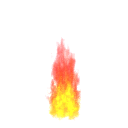
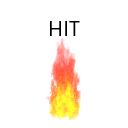
parse.js file works no bugs, html is fully updated to reflect changes for assignement 6, hit png was changed to add some text to clarify what it was.  Also the EXJson file was updated to fix a bug requiring an extra [0] to be placed before referencing the arrays.

Changed region(s): [[0.375, 0.1562, 0.625, 0.2812]]

diff --git a/parse.js b/parse.js
@@ -22,19 +22,52 @@ function parseJSON(){
     var playerHealth = document.getElementById("playerHealth");
     var turn = document.getElementById("turn");
 
+    //Player Board and CompBoard are 2D arrays ex. playerboard.rows[row].cells[col];
 
     turn.innerHTML = "Turn: " + json.turn;
     playerHealth.innerHTML = "Your Health: " + json.playerHealth;
     compHealth.innerHealth = "Computer Health: " + json.compHealth;
 
-    var compCells = compBoard.getElementsByTagName("td");
-    var playerCells = playerBoard.getElementsByTagName("td");
 
-    for(var i = 0; i < sizeof(compCells); ++i){
-        
+    console.info(playerBoard.length);
+
+    var constArraySize = 3;
+    var playerObjGrid = json.playerBoard;
+    var compObjGrid = json.compBoard;
+
+    //Three different values inside of the ObjGrids:
+    // 0 - Means hasnot been targeted, but will be a miss
+    // 1 - Means has been targeted, was a miss
+    // Piece obj - has a parameter if prevTargeted.
+    //      If prevTargeted is 0 - means that has not been targeted
+    //      If prevtargeted is 1 - means has already been shot, was a hit
+
+    //Really only need to display for player board: Pieces, and missed shots against player
+    for(var i = 0; i < constArraySize; ++i){
+        for(var j = 0; j < constArraySize; ++j){
+            if(playerObjGrid[i][j] == 1){ // Is a prevTargeted miss, display water splash
+                playerBoard.rows[i].cells[j].innerHTML = "<img src='miss.png' alt='MISS'>";
+            }
+            else if(playerObjGrid[i][j].prevTargeted == 1){ //is a prevTargeted piece, display fire
+                playerBoard.rows[i].cells[j].innerHTML = "<img src='hit.png' alt='HIT'>";
+            }
+            else if(playerObjGrid[i][j].isPiece == 1){ //is a Piece, but has not been hit, display black box
+                playerBoard.rows[i].cells[j].setAttribute("bgcolor","black");
+            }
+        }
     }
 
-    
+    //For computerBoard, only need to show misses and hits, no pieces, so only show 1's and pieces that prevTargeted = 1
+    for(var i = 0; i < constArraySize; ++i){
+        for(var j = 0; j < constArraySize; ++j){
+            if(compObjGrid[i][j] == 1){ // Is a prevTargeted miss, display water splash
+                compBoard.rows[i].cells[j].innerHTML = "<img src='miss.png' alt='MISS'>";
+            }
+            else if(compObjGrid[i][j].prevTargeted == 1){ //is a prevTargeted piece, display fire
+                compBoard.rows[i].cells[j].innerHTML = "<img src='hit.png' alt='HIT'>";
+            }
+        }
+    }
 }
 
 parseJSON();

diff --git a/html.html b/html.html
@@ -23,6 +23,7 @@
     <div id="playerHealth"></div>
     <div id="compHealth"></div>
     <div id="shotsRemain"></div>
+    <h2>Computer Board</h2>
     <table id="compBoard">
         <tr>
             <td></td><td></td><td></td>
@@ -35,6 +36,7 @@
         </tr>
     </table>
 
+    <h2>Player Board</h2>
     <table id="playerBoard">
             <tr>
                 <td></td><td></td><td></td>
